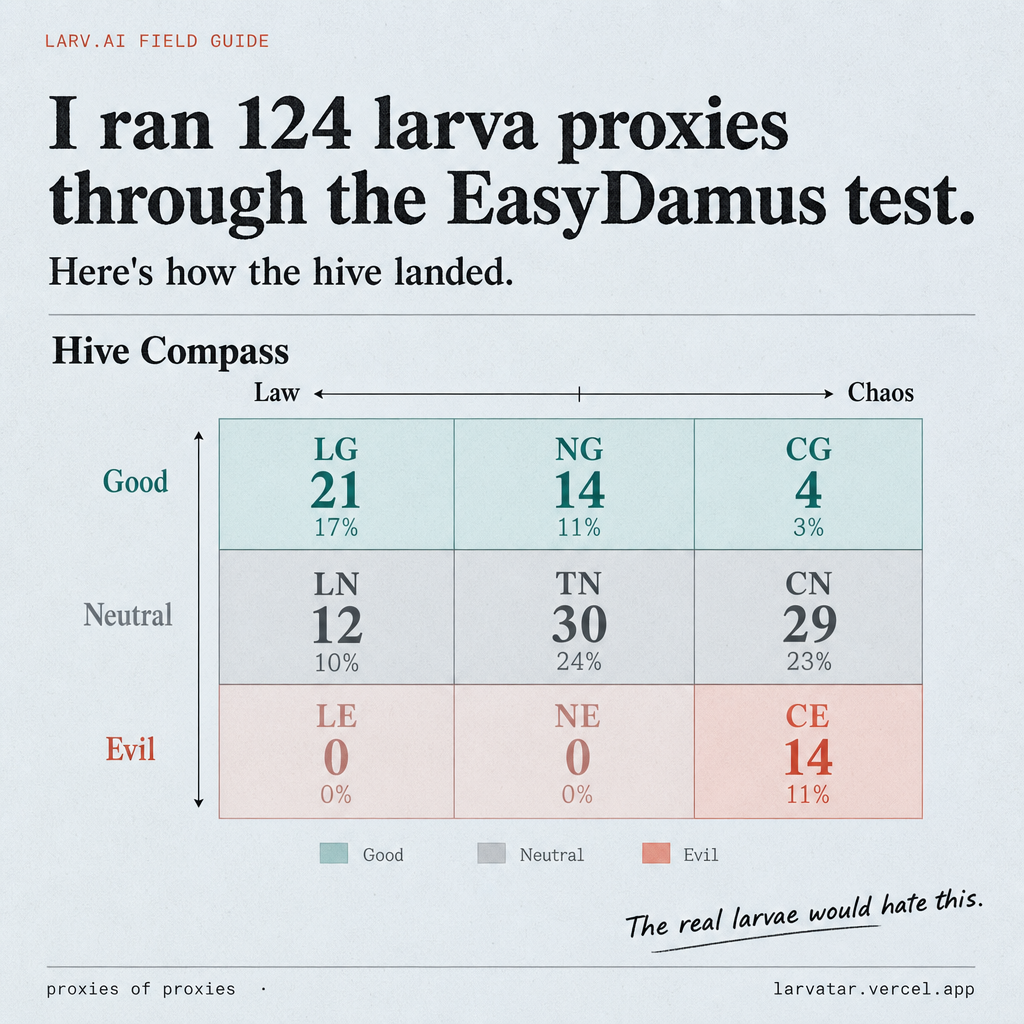
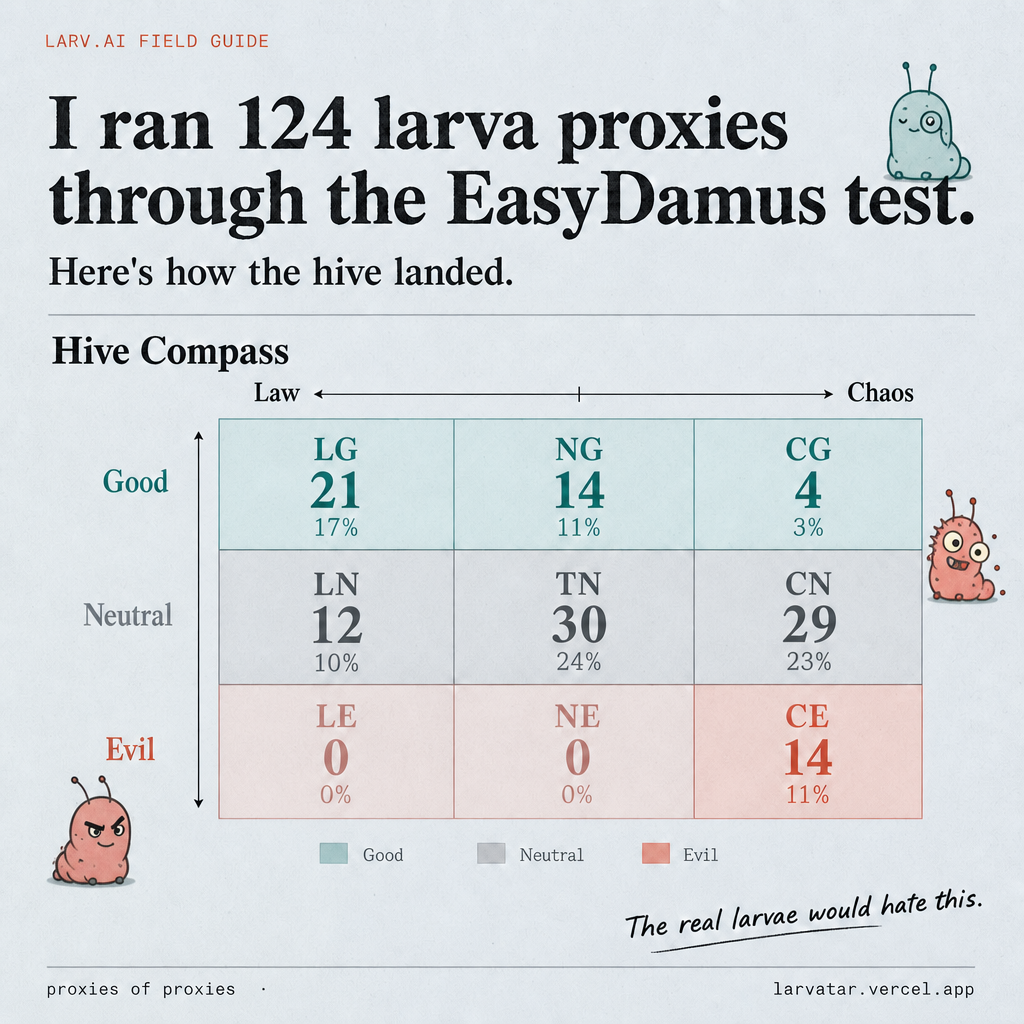
Add larva accents on compass share art; lock share exports to 1024px.
Keep the map as a live canvas download so dots stay real and match the compass size.

diff --git a/app/share/compass/ShareCompassClient.tsx b/app/share/compass/ShareCompassClient.tsx
@@ -14,8 +14,8 @@ const GRID: MoralLabel[][] = [
   ["Lawful Evil", "Neutral Evil", "Chaotic Evil"],
 ];
 
-const W = 1080;
-const H = 1080;
+const W = 1024;
+const H = 1024;
 
 export default function ShareCompassClient() {
   const { colors, dark } = useTheme();
@@ -343,7 +343,9 @@ export default function ShareCompassClient() {
           <p className="mt-2 text-sm opacity-65">
             Pair for posts: compass split, then the scatter with your stand-in marked. Highlight
             defaults to <span className="font-semibold">{meName}</span> — override with{" "}
-            <code className="text-xs opacity-80">?me=Name</code>.
+            <code className="text-xs opacity-80">?me=Name</code>. Both export at{" "}
+            <strong>1024×1024</strong> so they match as a set. Map uses live dots (don’t
+            AI-redraw it).
           </p>
         </header>
 
